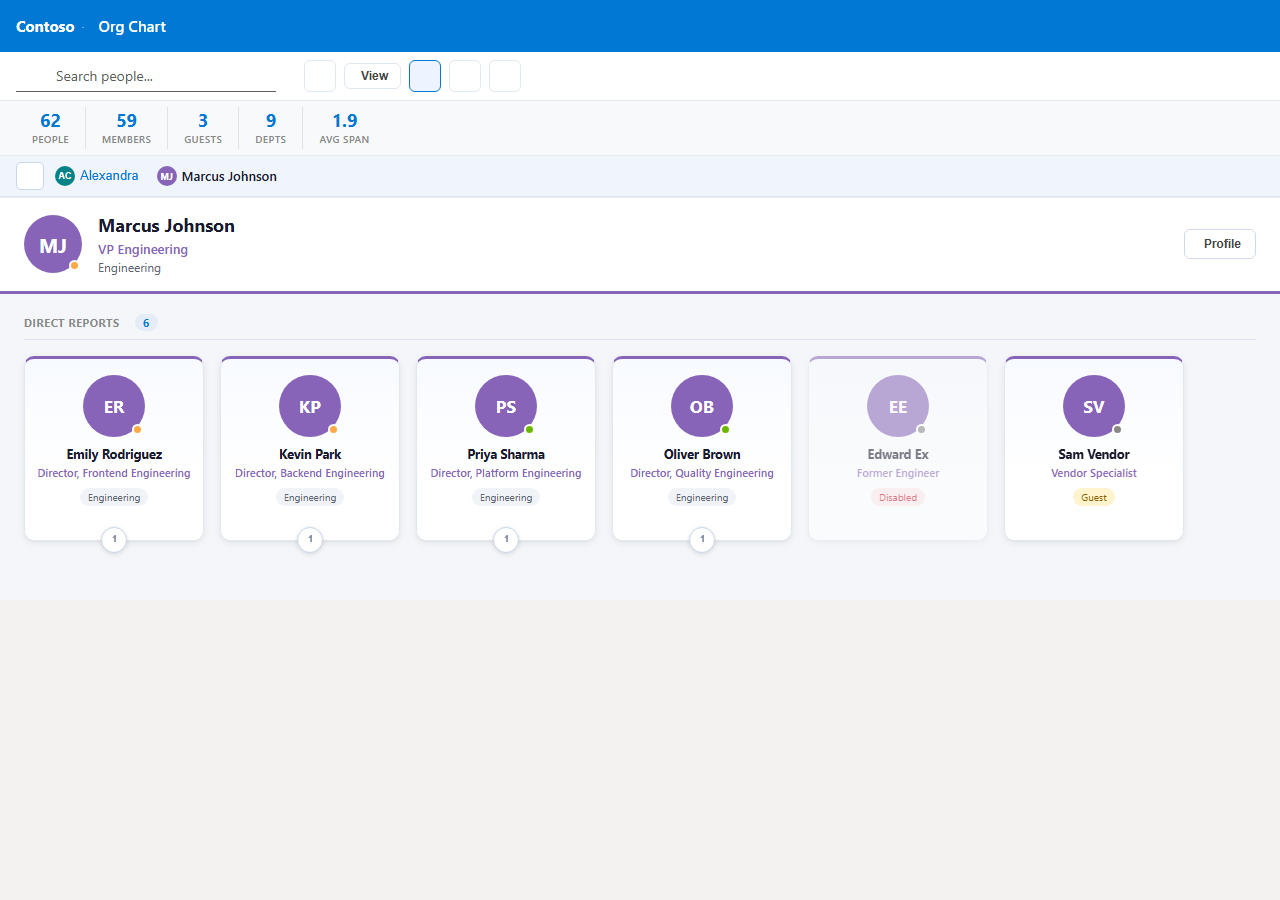
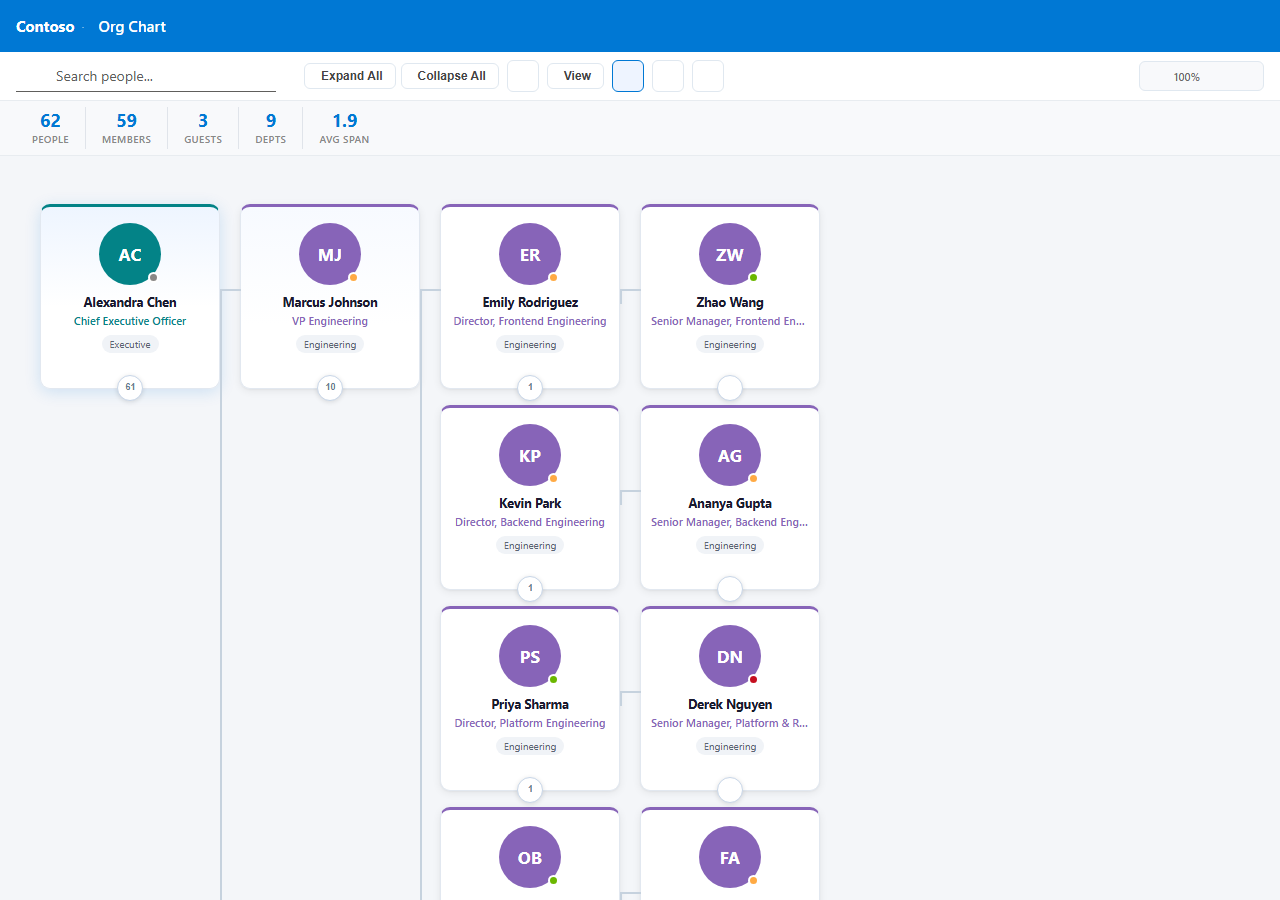
Fix horizontal org chart screenshot to show correct tree layout
Force layout/navigation state from URL params into localStorage before
render so screenshots always show the requested view from root.

diff --git a/demo/index.tsx b/demo/index.tsx
@@ -16,6 +16,14 @@ const mockSize: MockCompanySize = sizeRaw === '500' ? 500 : sizeRaw === '1000' ?
 try { localStorage.setItem('smartOrgChart_mockSize', String(mockSize)); } catch { /* ignore */ }
 // Force the requested view so readCurrentView() doesn't restore a stale value.
 try { localStorage.setItem('smartOrgChart_currentView', view); } catch { /* ignore */ }
+// Force the requested layout so OrgChart doesn't restore a stale chartLayout from localStorage.
+try {
+  const chartState = JSON.parse(localStorage.getItem('smartOrgChart_chartState') || '{}');
+  chartState.chartLayout = layout;
+  // Clear saved navigation so tree layouts always start from the root.
+  delete chartState.focusEmail;
+  localStorage.setItem('smartOrgChart_chartState', JSON.stringify(chartState));
+} catch { /* ignore */ }
 
 const mockContext = {
   pageContext: {
